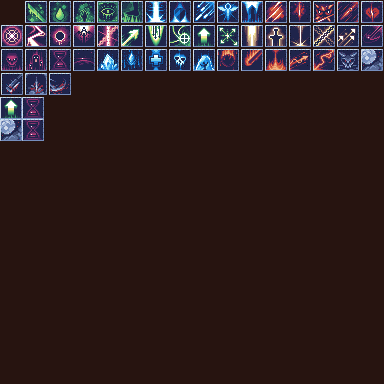
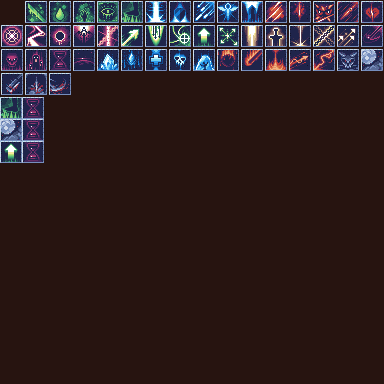
Double jump skill added, fix jump and fall animation

Changed region(s): [[0.0, 0.3438, 0.125, 0.4375], [0.0, 0.25, 0.0625, 0.3125]]

diff --git a/GameProduction 2/GameProduction 2/Player.cpp b/GameProduction 2/GameProduction 2/Player.cpp
@@ -11,7 +11,7 @@ Player::Player(SDL_Rect s, SDL_FRect d, SDL_Renderer* r, SDL_Texture* t, int sst
 	m_grounded = false;
 	m_accelX = m_accelY = m_velX = m_velY = 0.0;
 	m_maxVelX = 5.0;
-	m_maxVelY = JUMPFORCE;
+	m_maxVelY = 60;
 	m_grav = GRAV;
 	m_drag = 0.88;
 	m_a = &m_accelX;
@@ -20,12 +20,13 @@ Player::Player(SDL_Rect s, SDL_FRect d, SDL_Renderer* r, SDL_Texture* t, int sst
 	m_energy = 0; 
 	m_en = &m_energy;
 	m_invis = new invisibility();
-	m_speedBoost= new SpeedBoost();
+	m_speedBoost = new SpeedBoost();
+	m_doubleJump = new doubleJump();
 }
 
 void Player::Update(int stage)
 {
-	
+	m_doubleJump->Update(m_en);
 	if (EVMA::KeyHeld(SDL_SCANCODE_A))
 	{		
 		m_accelX -= 1;				
@@ -34,15 +35,23 @@ void Player::Update(int stage)
 	{
 		m_accelX += 1;
 	}
-	if (EVMA::KeyPressed(SDL_SCANCODE_SPACE) && IsGrounded())
+	if (EVMA::KeyPressed(SDL_SCANCODE_SPACE) && m_doubleJump->getTotalJumps() < 2 && (IsGrounded() || m_doubleJump->getdoubleJump() == true))
 	{
-		SetAccelY(-JUMPFORCE); // Sets the jump force.
+		SetAccelY(0);
+		AddAccelY(-20);
+		if(m_doubleJump->getTotalJumps() == 1)
+			AddAccelY(-15);
+		SetGrav(2);
+		m_doubleJump->addTotalJumps(1);
 		SetGrounded(false);
+		
 	}
+	
 	m_dX = &this->GetDstP()->x;
 	m_dY = &this->GetDstP()->y;
 	m_speedBoost->Update(m_a, m_aMaxY, m_en, m_dX, m_dY);
 	m_invis->Update(m_en);
+	
 
 	//std::cout << Engine::Instance().getinvis();
 
@@ -119,18 +128,22 @@ void Player::Update(int stage)
 	}
 	UpdateAxis(m_bgScrollX, m_bgScrollY);
 	Collision();
+	std::cout << GetVelY() << std::endl;
 	switch (m_state)
 	{
 	case idle:
+		if (GetVelY() < 0)
+		{
+			SetState(jump);
+		}
+		if (GetVelY() > 0)
+		{
+			SetState(fall);
+		}
 		if (EVMA::KeyHeld(SDL_SCANCODE_A) || EVMA::KeyHeld(SDL_SCANCODE_D))
 		{
 			SetState(running);
 		}
-		if (EVMA::KeyHeld(SDL_SCANCODE_SPACE))
-		{
-			SetState(jump);
-		}
-
 		break;
 	case running:
 		if(m_speedBoost->getspeedBoost() == true)
@@ -153,9 +166,27 @@ void Player::Update(int stage)
 		}
 		break;
 	case jump:
-		if (IsGrounded())
+		if (GetVelY() == 0)
 		{
 			SetState(idle);
+			break;
+		}
+		if (GetVelY() > 0)
+		{
+			SetState(fall);
+			break;
+		}
+
+		break;
+	case fall:
+		if (GetVelY() == 0)
+		{
+			SetState(idle);
+			break;
+		}
+		if (GetVelY() < 0)
+		{
+			SetState(jump);
 			break;
 		}
 
@@ -202,6 +233,7 @@ void Player::Render()
 	SDL_RenderCopyExF(m_pRend, m_pText, GetSrcP(), GetDstP(), m_angle, 0, static_cast<SDL_RendererFlip>(m_dir));
 	m_speedBoost->Render();
 	m_invis->Render();
+	m_doubleJump->Render();
 }
 
 void Player::SetState(int s)
@@ -225,7 +257,14 @@ void Player::SetState(int s)
 		m_pText = TEMA::GetTexture("playerJump");
 		m_sprite = 0;
 		m_spriteMin = 0;
-		m_spriteMax = 11;
+		m_spriteMax = 3;
+	}
+	else if (m_state == fall)
+	{
+		m_pText = TEMA::GetTexture("playerfall");
+		m_sprite = 0;
+		m_spriteMin = 0;
+		m_spriteMax = 3;
 	}
 	else if (m_state == boost)
 	{
@@ -252,6 +291,8 @@ void Player::Collision()
 			if (GetDstP()->y + GetDstP()->h - (float)GetVelY() <= Engine::Instance().GetPlatform()[i]->GetDstP()->y)
 			{ // Colliding top side of platform.
 				SetGrounded(true);
+				m_doubleJump->setTotalJumps(0);
+				SetGrav(4);
 				StopY();
 				SetY(Engine::Instance().GetPlatform()[i]->GetDstP()->y - GetDstP()->h);
 			}
@@ -328,6 +369,8 @@ void Player::StopY() { m_velY = 0.0; }
 void Player::SetAccelX(double a) { m_accelX = a; }
 void Player::SetAccelY(double a) { m_accelY = a; }
 
+
+
 bool Player::IsGrounded() { return m_grounded; }
 void Player::SetGrounded(bool g) { m_grounded = g; }
 double Player::GetVelX() { return m_velX; }
@@ -339,7 +382,10 @@ void Player::AddAccelX(double a)
 {
 	m_accelX += a;
 }
-
+void Player::AddAccelY(double a)
+{
+	m_accelY += a;
+}
 void Player::SetMaxVel(double a)
 {
 	m_maxVelX = a;

diff --git a/GameProduction 2/GameProduction 2/SkillManager.cpp b/GameProduction 2/GameProduction 2/SkillManager.cpp
@@ -89,3 +89,37 @@ void invisibility::Render()
 	if (iconB != nullptr)
 		iconB->Render();
 }
+
+doubleJump::doubleJump()
+{
+	iconC = new AnimatedSprite({ 0,141,22,22 }, { 446.0f,724.0f,22.0f,22.0f },
+		Engine::Instance().GetRenderer(), TEMA::GetTexture("skill"), 0, 1, 1, 1);
+}
+
+void doubleJump::Update(double* c)
+{
+	double* m_energy = c;
+	if (EVMA::KeyPressed(SDL_SCANCODE_3) && *m_energy > 0 && m_doubleJumpCoolDown == false)
+	{
+		*m_energy -= 5;
+		m_doubleJump = true;
+	}
+	if (m_doubleJump == true)
+	{
+		iconC->Animate();
+		++m_doubleJumpTimer;
+	}
+	if (m_doubleJumpTimer >= 200)
+	{
+		m_doubleJumpTimer = 0;
+		iconC->SetSrcP(0, 119);
+		m_doubleJump = false;
+	}
+	
+}
+
+void doubleJump::Render()
+{
+	if (iconC != nullptr)
+		iconC->Render();
+}

diff --git a/GameProduction 2/GameProduction 2/SkillManager.h b/GameProduction 2/GameProduction 2/SkillManager.h
@@ -39,5 +39,20 @@ public:
 private:
 	bool m_invis = false;
 	int m_invisTimer = 0;
-	AnimatedSprite* effect, * iconB;
+	AnimatedSprite * iconB;
+};
+class doubleJump : public SkillManager {
+public:
+	doubleJump();
+	void Update() {}
+	void Update(double* c);
+	void Render();
+	bool getdoubleJump() { return m_doubleJump; }
+	int getTotalJumps() { return m_totalJumps;  }
+	void setTotalJumps(int a) { m_totalJumps = a; }
+	void addTotalJumps(int a) { m_totalJumps += a; }
+private:
+	bool m_doubleJump = false, m_doubleJumpCoolDown = false;
+	int m_doubleJumpTimer = 0, m_totalJumps = 0;;
+	AnimatedSprite* iconC;
 };

diff --git a/GameProduction 2/GameProduction 2/Player.h b/GameProduction 2/GameProduction 2/Player.h
@@ -21,17 +21,19 @@ public:
 	void SetMaxVel(double a);
 	void SetAccelX(double a);
 	void SetAccelY(double a);
+	void AddAccelY(double a);
 	int getEnergy() { return m_energy; }
 	void setEnergy(int a);
 	void SetVel(double a, double b);
 	void Stop();
 private:
 	int speedDowncount;
-	enum state { idle, running, jump, boost, invis } m_state;
+	enum state { idle, running, jump, boost, invis, fall } m_state;
 	bool m_dir;
 	bool m_grounded;
 	invisibility* m_invis;
 	SpeedBoost* m_speedBoost;
+	doubleJump* m_doubleJump;
 	double m_accelX,
 		m_accelY,
 		m_velX,

diff --git a/GameProduction 2/GameProduction 2/Engine.cpp b/GameProduction 2/GameProduction 2/Engine.cpp
@@ -63,6 +63,7 @@ bool Engine::Init(const char* title, int xpos, int ypos, int width, int height, 
 	TEMA::RegisterTexture("Img/skills.png", "skill");
 	TEMA::RegisterTexture("Img/CharacterWalkBoost.png", "playerboost");
 	TEMA::RegisterTexture("Img/CharacterWalkInvisible2.png", "playerinvis");
+	TEMA::RegisterTexture("Img/CharacterFall.png", "playerfall");
 	FOMA::RegisterFont("Img/LTYPE.TTF", "font1", 20);
 	STMA::ChangeState(new TitleState);
 	SOMA::AllocateChannels(16);
